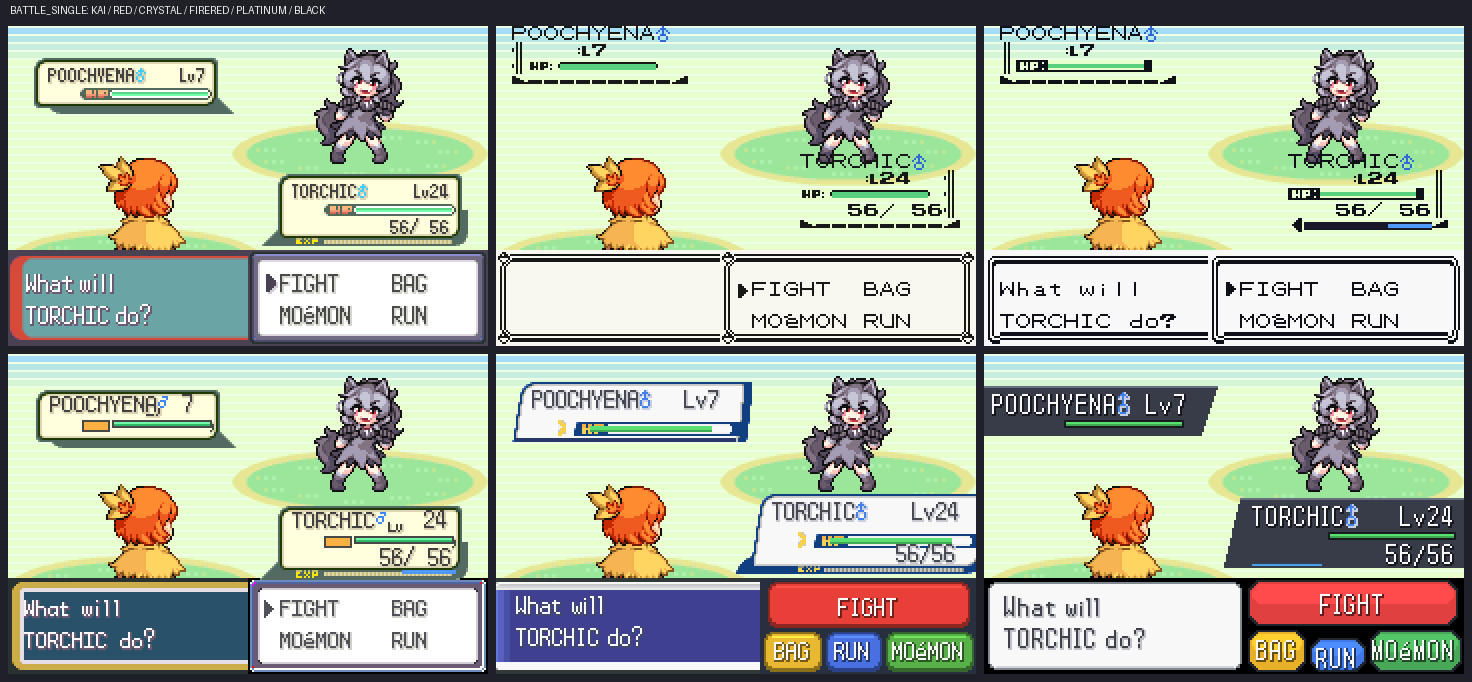
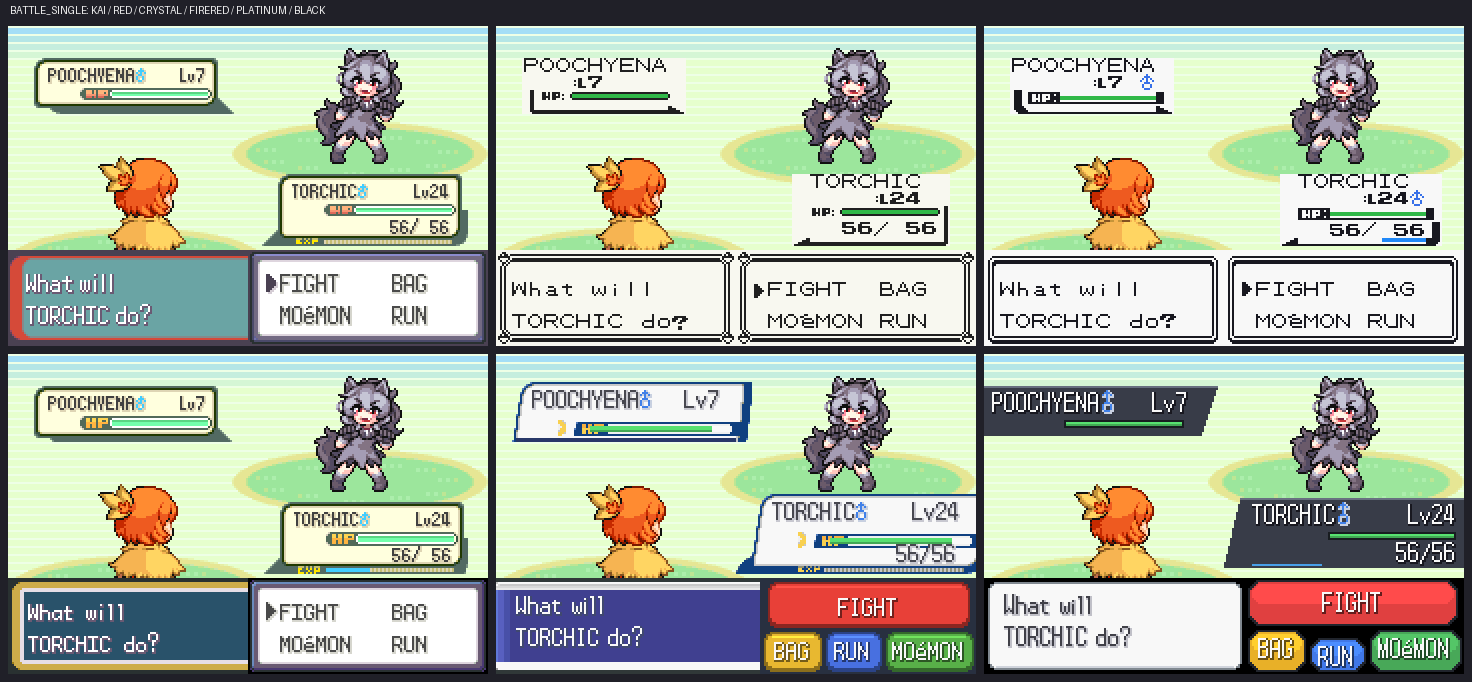
UI STYLE: RED, CRYSTAL and FIRERED mock-ups redone and checked; notes for the PLATINUM / BLACK pass
Claude-Session: https://claude.ai/code/session_012XQowVQZ881CpefknPtxcq

diff --git a/docs/ui_styles/UI_STYLES.md b/docs/ui_styles/UI_STYLES.md
@@ -4,7 +4,14 @@ The user's request (2026-11-15): a style selector for the whole interface, KAI (
 RED, CRYSTAL, FIRERED, PLATINUM, BLACK, each from its own game's art, over Kai's own single, double and triple battle
 layouts; a mock-up of every style on every screen it changes, shown for approval before anything is built.
 
-**Status: mock-ups shown 2026-11-15, waiting for the user's approval.** Nothing in the game yet.
+**Status (2026-11-15): first mock-ups not approved ("everything other than Emerald looks extremely rough"); the
+second pass is under way.** RED, CRYSTAL and FIRERED are redone (below) and pass the checker; PLATINUM and BLACK are
+still the first pass and are being redone the same way. Nothing in the game yet.
+
+The user's rules for the second pass: readability first; as much of each original's style as possible; KAI's fitment,
+above all in Double and Triple Battles; each original game's own menu layouts (never KAI's layout in another game's
+paint); every KAI feature usable in every style (six summary pages and RENAME, eight BAG pockets and SORT, five OPTIONS
+tabs, six party slots, the Triple Battle type icons).
 
 ## Where it lives
 
@@ -21,17 +28,29 @@ ten screens, `<style>/<screen>.png` each at 2x.
 ## Each style's art
 
 - KAI: the game's own pictures (tools/test/scenarios/uicap_*; `mp hud 0` hides a battle's boxes for the others' scenes).
-- RED / CRYSTAL (tools/ui_styles/gb.py): tile for tile from pret/pokered and pret/pokecrystal (gfx/font: the font, the
-  box borders, the HUD's HP bar, :L and brackets; Crystal's frames, PACK and STATS pages), on the GBA's 30 x 20 tiles,
-  in the Super Game Boy's greys with a coloured HP bar (RED) and the Game Boy Color's palettes (CRYSTAL).
-- FIRERED (tools/ui_styles/firered.py): pret/pokefirered's own graphics: the font and its widths, the window frame,
-  the battle textbox and its menus, the healthboxes put together as their OAMs are, the party background with its slots
-  and box palettes, the BAG and its picture, the summary page.
-- PLATINUM (tools/ui_styles/ds.py): its font and, from the user's ROM, the player's healthbox (pl_batt_obj 117 / cell
-  116 / palette 0; the foe's and the doubles' its shorter form), the battle's message bar, the BAG's screen and bag;
+- Every style draws into KAI's own rectangles (tools/ui_styles/layout.py, measured from the game's screens with and
+  without its boxes), so a style changes how the game looks and never where anything is; base.py holds the screens.
+- RED / CRYSTAL (tools/ui_styles/gbstyle.py): tile for tile from pret/pokered and pret/pokecrystal. The battle HUDs are
+  their tile grids (PlaceHUDTiles / DrawPlayerHUDBorder: the HP bar as DrawHPBar lays it, the line, corners and
+  wedges; Crystal's EXP bar tiles filling from the right); Double and Triple boxes are built from the same pieces (the
+  bar opened by RED's own edge or CRYSTAL's HP:), only empty pixel rows taken out to fit KAI's boxes. Text boxes, START,
+  the status / STATS screens, ITEM / PACK and OPTION sit on the games' own coordinates (8 x 8 tiles); KAI's extras go in
+  the columns the 20-tile screens don't have.
+- FIRERED (tools/ui_styles/fr.py): pret/pokefirered's graphics and window templates: its healthboxes in KAI's boxes
+  (the drop shadow's outermost row trimmed), its HP / EXP bar tiles stopping at the art's own end caps, the HP numbers
+  in the game's number window over the art's "/", Triple Battle cards cut from its doubles box, both battle textbox
+  palettes; the message box (menu_message), START with its help bar, the party slots (party_menu.h), the summary
+  (six page dots), the BAG (pocket arrows beside the bag, eight pocket pips, START: SORT), OPTION (its help bar).
+- tools/ui_styles/check.py runs with every render and writes report.txt: anything drawn outside KAI's boxes, one-pixel
+  seams, text overlapping text, text inked over other art (seen by drawing each screen again without its words), text
+  off the screen. A finding that is the original game's own layout is listed with its reason, never hidden.
+- PLATINUM (tools/ui_styles/ds.py, first pass, being redone): its font and, from the user's ROM, (wrongly) pl_batt_obj
+  117 as the healthbox; the real ones, by the decomp's res/graphics/battle/sprites.order: enemy 188 / short_cell 187,
+  player singles 191 / tall_cell 190, player doubles 200 and 203 (cells 199 / 202), enemy doubles 194 / 197, palette
+  primary.NCLR 71; the battle's message bar, the BAG's screen and bag;
   its touch-screen buttons (FIGHT red, BAG yellow, RUN blue, POKéMON green) beside the message on the one screen, its
   windows, party panels, summary and OPTIONS drawn in its shapes and colours.
-- BLACK (tools/ui_styles/ds.py): its own font from the ROM (a/0/2/3, NFTR); Gen 5's dark slanted HP bars, flat round
+- BLACK (tools/ui_styles/ds.py, first pass, being redone): its own font from the ROM (a/0/2/3, NFTR); Gen 5's dark slanted HP bars, flat round
   buttons, the menu as a grid of tiles, the BAG's ring of pockets, drawn in its colours.
 
     python3 tools/ui_styles/mockups.py KAI_SHOTS EXPORT OUT --pokered DIR --pokecrystal DIR --pokefirered DIR \
